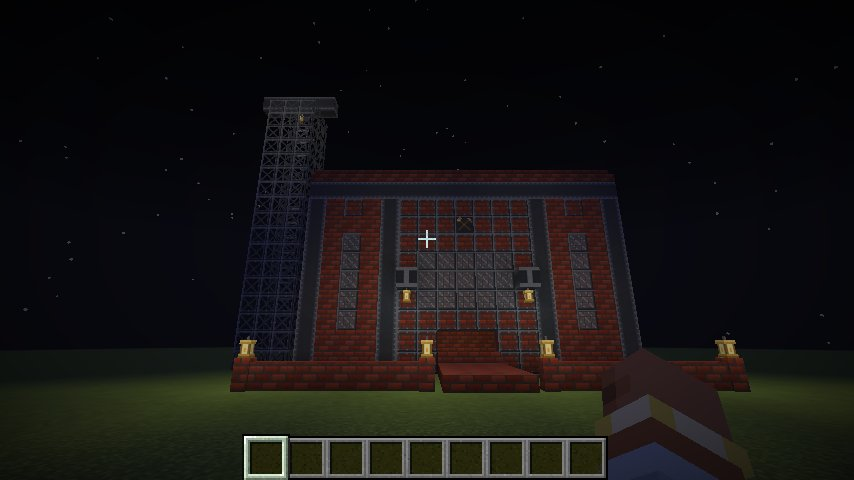
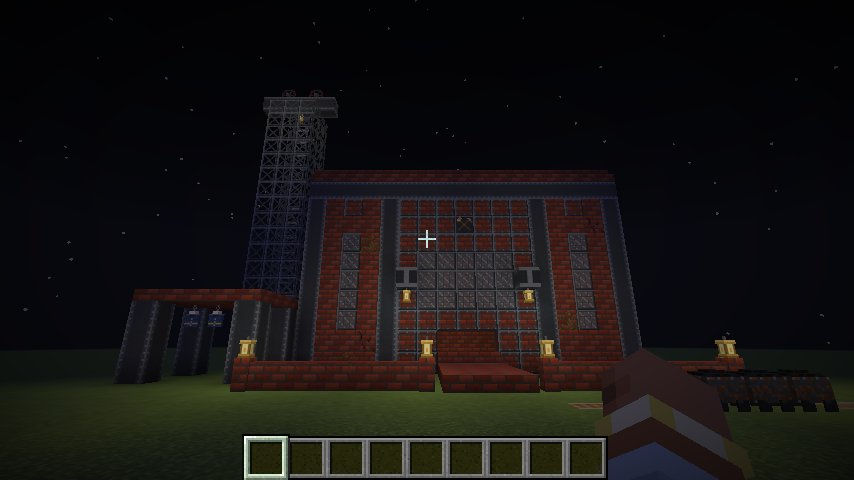
Show Zechenbau 0.2 in its README, remove the temporary print step
Claude-Session: https://claude.ai/code/session_01UyGYRPnFYm9reXPzUVCR5P

diff --git a/README.md b/README.md
@@ -5,7 +5,7 @@ A collection of Minecraft mods. Every mod lives in its own folder and is a compl
 | Mod | Loader | Minecraft | Description |
 | --- | --- | --- | --- |
 | [Kumpel](kumpel/) | Fabric | 26.3 | A small mining golem that follows you, collects items, senses and mines ores, and levels up from copper to netherite. Configurable, with JEI and REI support. |
-| [Zechenbau](zechenbau/) | Fabric | 26.3 | Building blocks of the Ruhr's collieries: colliery bricks, steel framework, girders, headframe lattice and miner's lamps. |
+| [Zechenbau](zechenbau/) | Fabric | 26.3 | Building blocks of the Ruhr's collieries: colliery bricks, steel framework, girders, headframe lattice, sheave wheels, coal tubs and miner's lamps. |
 
 ## Layout
 

diff --git a/zechenbau/README.md b/zechenbau/README.md
@@ -6,7 +6,7 @@ A companion to [Kumpel](../kumpel/), but it works on its own.
 
 **Minecraft 26.3 · Fabric Loader ≥ 0.19.5 · Fabric API · Java 25**
 
-![A machine hall with steel-framed windows, girders and lamps, and a headframe behind it](../.github/media/zechenbau/zeche.jpg)
+![A machine hall with steel-framed windows, girders, lamps and weathered bricks, a headframe with its sheave wheels, a shelter with clothes hangers and a train of coal tubs](../.github/media/zechenbau/zeche.jpg)
 
 ## Blocks
 
